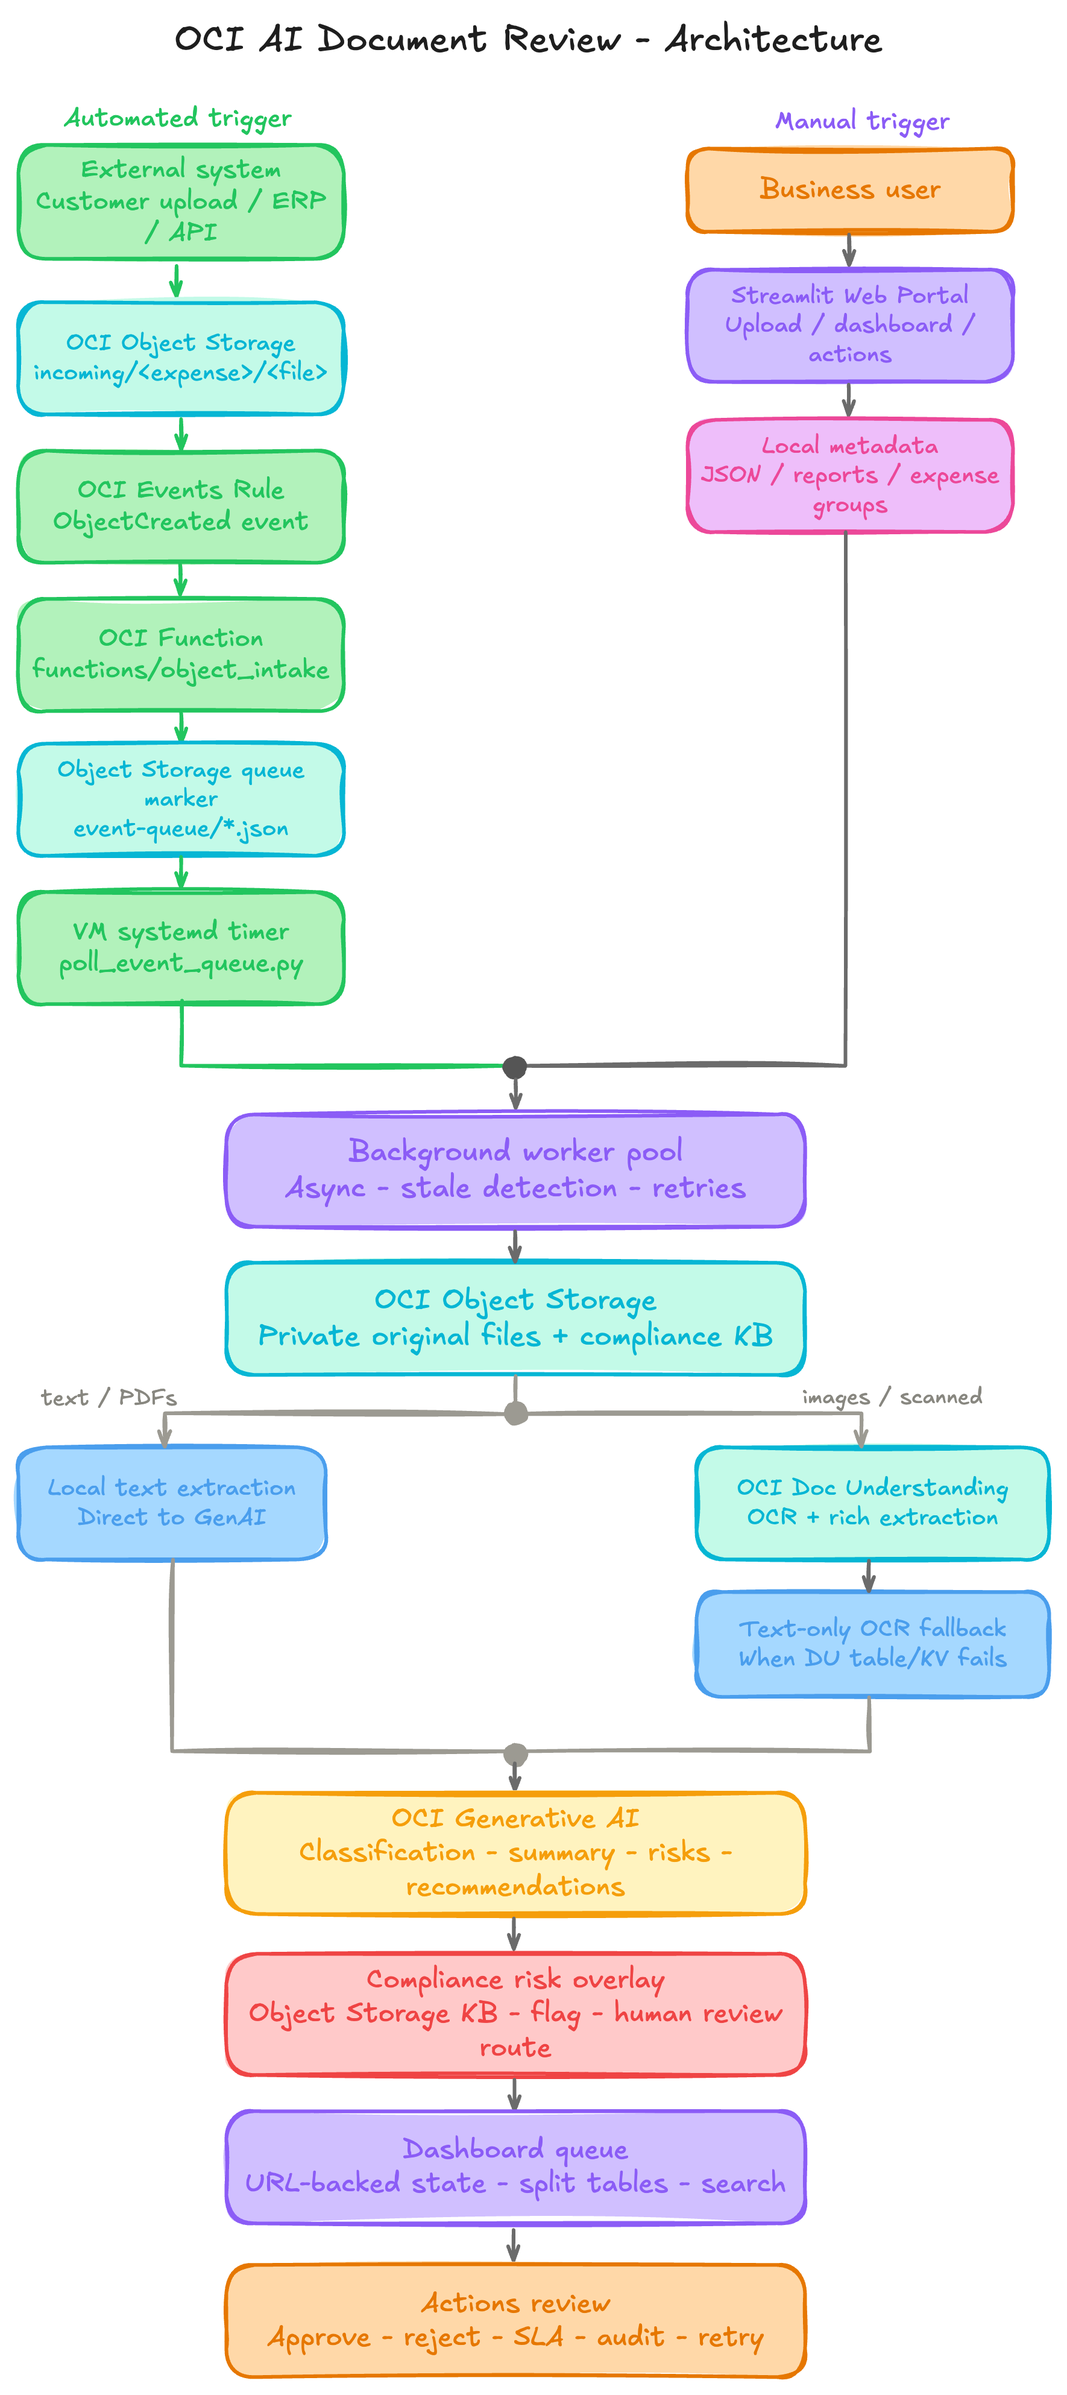
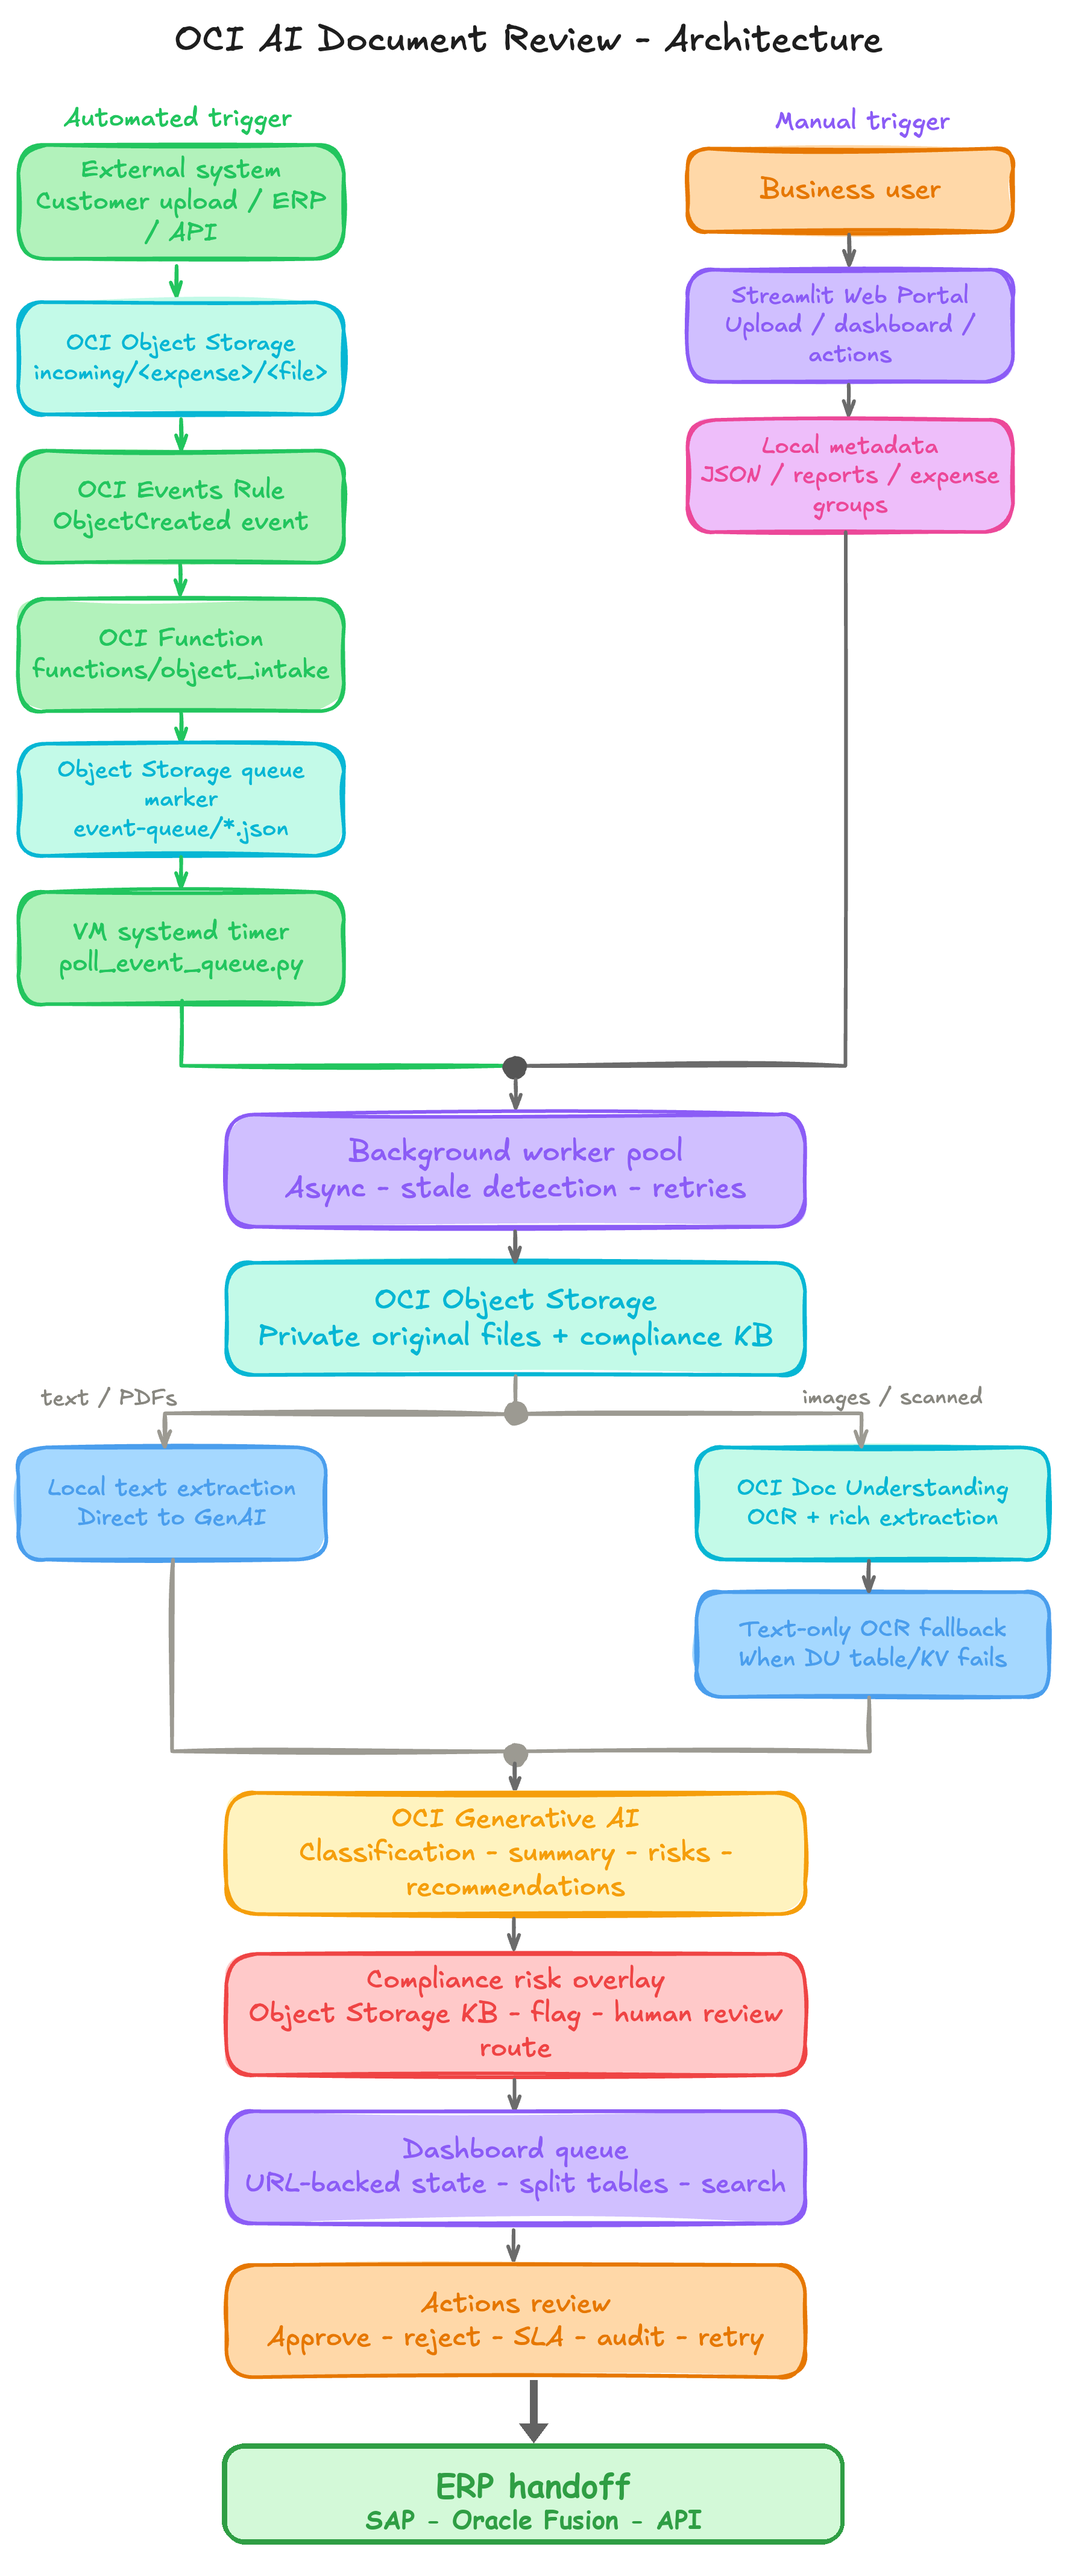
Add ERP handoff to architecture

diff --git a/app.py b/app.py
@@ -2642,9 +2642,14 @@ def expense_reference_file_card_html(
 
 
 def expense_reference_action_html(record: DocumentRecord) -> str:
+    label = (
+        "Decision"
+        if record.review_status.value in {"APPROVED", "REJECTED"}
+        else "Next action"
+    )
     return (
         '<div class="expense-file-next-action">'
-        '<span class="expense-file-next-action-label">Next action</span>'
+        f'<span class="expense-file-next-action-label">{escape(label)}</span>'
         f"{action_badge(next_action(record))}"
         "</div>"
     )

diff --git a/tests/test_dashboard.py b/tests/test_dashboard.py
@@ -367,6 +367,8 @@ def test_expense_reference_action_html_makes_next_action_visible():
     assert "Next action" in ready_html
     assert "Approve or reject" in ready_html
     assert "state-warn" in ready_html
+    assert "Next action" not in rejected_html
+    assert "Decision" in rejected_html
     assert "Rejected" in rejected_html
     assert "state-bad" in rejected_html
 

diff --git a/docs/implementation_guide.md b/docs/implementation_guide.md
@@ -184,7 +184,7 @@ The Dashboard route is synchronized to `?page=Dashboard`, so browser refresh sta
 
 The Upload page validates basic requirements before queueing: up to five files, mandatory expense name or reference when more than one file is selected, supported extension, non-empty file, and `MAX_UPLOAD_MB`. Ansible starts Streamlit with `--server.maxUploadSize` set to the same value, so the browser uploader and app validation show the same per-file limit. It also blocks image OCR uploads above the current OCI synchronous file-size limit. For PDFs, it attempts to read the local page count. PDFs above the OCI synchronous OCR page or file-size limit are allowed and the user is informed that scanned pages will be processed in chunks. If the page count cannot be read locally, the user sees a warning that encrypted, damaged, or password-protected PDFs may fail during extraction.
 
-The Dashboard, Actions, and Reviewed pages display the stored expense name or reference so reviewers can keep related files from the same multi-file upload together end to end. Dashboard shows individual files and multi-file expense/reference groups in the same compact selectable queue tables. A group row shows file count, stage summary, target action, highest risk, confidence range, SLA, owner, and the first target file; `Review selected` opens the best next actionable file, preferring compliance review and approval work before retry, active, or reviewed records. Actions keeps linked files for the same expense/reference inside an expander beside the selected document context. The Actions selector is labeled `Selected file for review`, and each option includes the exact file name, document ID, expense/reference, stage, and upload time so duplicate or similar file names are easier to distinguish. The selected record summary repeats the file name, document ID, linked-file count, workflow, SLA, current action, and risk. For multi-file expense/reference groups, Actions shows group aggregation inside the linked-files expander: total files, files needing decision, files needing fix, total extracted items/services, total risk notes, and an Items / Services by file table when line items are present. The Actions page shows the AI review summary before the Decision panel, then keeps Workflow, notes, retry, audit, source document, analysis details, lifecycle, extracted text, and downloads in expanders so reviewers expand only what they need. The Reviewed page is a closed-work archive for approved and rejected documents, with summary metrics, search, and Approved/Rejected filtering; its table uses `Open selected` to revisit the stored decision context. It uses the preserved local working copy in `data/uploads` and shows a `Download Doc for Review` button so the reviewer can open the original file locally. If the working copy is missing, the reviewer still sees metadata, lifecycle details, extracted text, and generated analysis.
+The Dashboard, Actions, and Reviewed pages display the stored expense name or reference so reviewers can keep related files from the same multi-file upload together end to end. Dashboard shows individual files and multi-file expense/reference groups in the same compact selectable queue tables. A group row shows file count, stage summary, target action, highest risk, confidence range, SLA, owner, and the first target file; `Review selected` opens the best next actionable file, preferring compliance review and approval work before retry, active, or reviewed records. Actions keeps linked files for the same expense/reference inside an expander beside the selected document context. The Actions selector is labeled `Selected file for review`, and each option includes the exact file name, document ID, expense/reference, stage, and upload time so duplicate or similar file names are easier to distinguish. The selected record summary repeats the file name, document ID, linked-file count, workflow, SLA, current action, and risk. For multi-file expense/reference groups, Actions shows group aggregation inside the linked-files expander: total files, files needing decision, files needing fix, total extracted items/services, total risk notes, and an Items / Services by file table when line items are present. The Actions page shows the AI review summary before the Decision panel, then keeps Workflow, notes, retry, audit, source document, analysis details, lifecycle, extracted text, and downloads in expanders so reviewers expand only what they need. The architecture now reserves the post-approval step for a future ERP handoff to systems such as SAP, Oracle Fusion, or another finance API; the current MVP records the reviewed decision but does not post transactions to those systems yet. The Reviewed page is a closed-work archive for approved and rejected documents, with summary metrics, search, and Approved/Rejected filtering; its table uses `Open selected` to revisit the stored decision context. It uses the preserved local working copy in `data/uploads` and shows a `Download Doc for Review` button so the reviewer can open the original file locally. If the working copy is missing, the reviewer still sees metadata, lifecycle details, extracted text, and generated analysis.
 
 After GenAI returns structured analysis, the app applies a deterministic compliance overlay. It checks extracted text, file name, business reference, notes, and selected AI fields against the curated entity catalog configured by `COMPLIANCE_ENTITIES_OBJECT_NAME`, defaulting to `compliance/public_sector_entities.csv` in Object Storage. If the object is missing, the app seeds it from the bundled `data/compliance/public_sector_entities.csv` file and falls back locally if Object Storage cannot be reached.
 

diff --git a/README.md b/README.md
@@ -51,7 +51,7 @@ It is not a blind auto-approval system. It is a human-in-the-loop review platfor
 | Large scanned PDFs | Automatic split into limit-safe temporary chunks for synchronous Document Understanding calls, with cleanup after merge. |
 | AI review | OCI Generative AI generates structured summaries, fields, risks, missing information, recommendations, and receipt or invoice line items when visible. |
 | Compliance overlay | A curated Object Storage CSV/JSON catalog flags public-sector expense cues with auditable evidence and `LOW`, `MEDIUM`, or `HIGH` severity. |
-| Workflow | Dashboard queues, Actions review screen, dedicated Reviewed archive, approve/reject decisions, owner assignment, SLA date, comments, audit trail, retry history, and source-document download. |
+| Workflow | Dashboard queues, Actions review screen, dedicated Reviewed archive, approve/reject decisions, owner assignment, SLA date, comments, audit trail, retry history, source-document download, and an architecture placeholder for ERP handoff. |
 | Reporting | Local JSON metadata plus Markdown review reports for download. |
 | Retention | VM-local metadata, reports, upload working copies, and Object Storage document objects are retained for 30 days by default. |
 | Optional automation | OCI Events and OCI Functions can ingest files uploaded to Object Storage under `incoming/`. |
@@ -128,6 +128,7 @@ Upload
   -> Actions human decision
   -> approve, reject, retry, assign, comment, or audit
   -> Reviewed archive for closed decisions
+  -> optional ERP handoff target such as SAP, Oracle Fusion, or API
 ```
 
 Important behavior:

diff --git a/docs/platform_usage.md b/docs/platform_usage.md
@@ -392,6 +392,11 @@ Reviewed
   - Shows reviewed metrics plus search and Approved/Rejected filters.
   - Opens closed records with `Open selected` for audit and follow-up context.
 
+ERP handoff
+  - The architecture diagram reserves a downstream handoff step after Actions review.
+  - Intended targets include SAP, Oracle Fusion, or another finance-system API.
+  - The current MVP does not post approved records into ERP; this is the integration slot for a future connector or approval export.
+
 Automatic Object Storage intake
   - Enable with `enable_automatic_processing = true` and an OCIR image URI for `functions/object_intake`.
   - Keep `tenancy_id` populated so Terraform can create the Function dynamic group.

diff --git a/docs/architecture_flows.md b/docs/architecture_flows.md
@@ -368,6 +368,13 @@ docs/assets/oci-ai-document-review-architecture.excalidraw
                             |
                             v
               +---------------------------+
+              | ERP Handoff               |
+              | SAP / Oracle Fusion / API |
+              | outbound integration slot |
+              +---------------------------+
+                            |
+                            v
+              +---------------------------+
               | Reviewed Page             |
               | Closed decision archive   |
               | Search + decision filter  |

diff --git a/docs/release_notes.md b/docs/release_notes.md
@@ -8,7 +8,10 @@ Release notes summarize user-visible workflow, infrastructure, documentation, an
 
 ## Unreleased
 
-No unreleased changes.
+### Architecture
+
+- Added an ERP handoff step after Actions review in the architecture diagram and documentation.
+- Documented SAP, Oracle Fusion, or another finance-system API as future outbound integration targets, not current MVP posting behavior.
 
 ## v0.6.0 - 2026-05-12
 

diff --git a/CHANGELOG.md b/CHANGELOG.md
@@ -8,7 +8,7 @@ This project uses semantic-style MVP versioning: `vMAJOR.MINOR.PATCH`.
 
 ## Unreleased
 
-No unreleased changes.
+- Added an ERP handoff step after Actions review in the architecture diagram and documentation, positioning SAP, Oracle Fusion, or another finance API as a future outbound integration target.
 
 ## v0.6.0 - 2026-05-12
 
